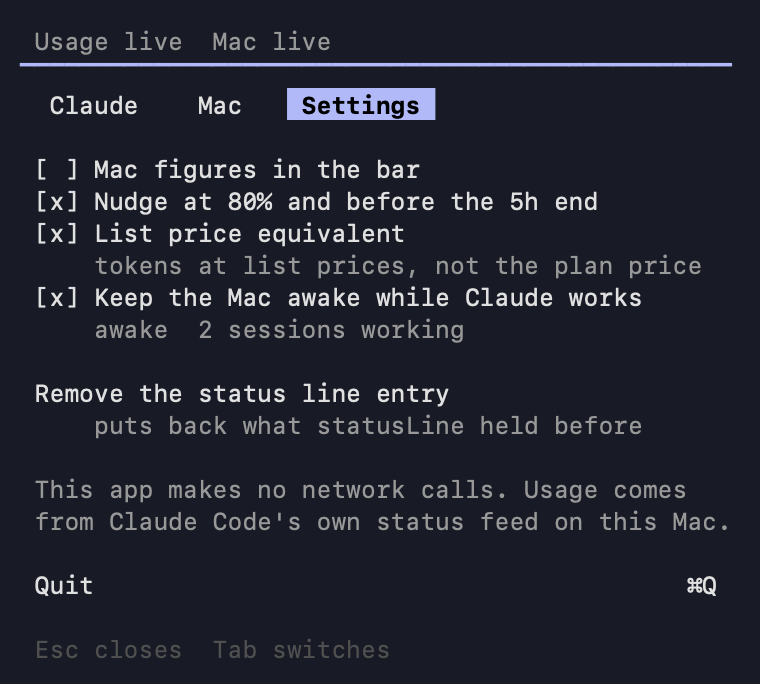
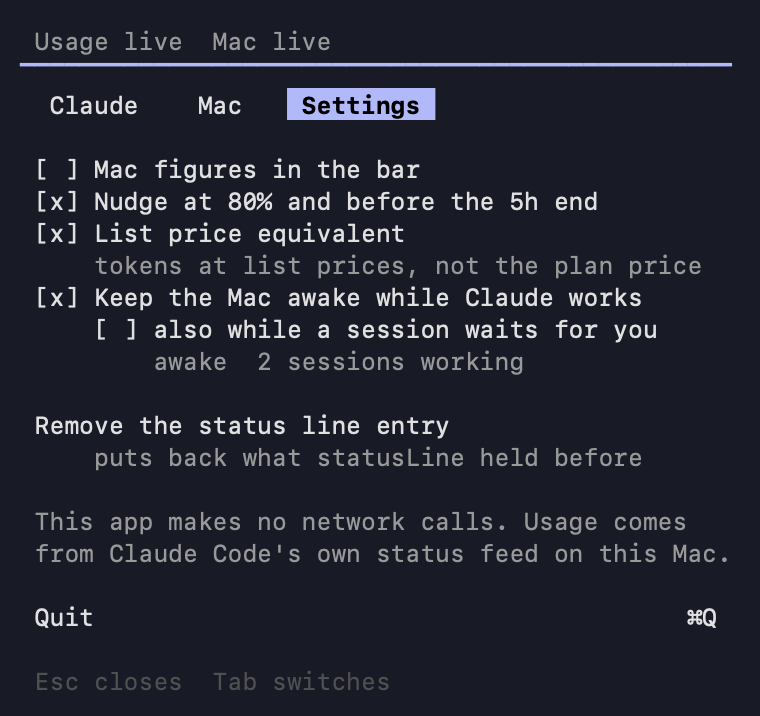
Keep the Mac awake while a session waits

diff --git a/docs/spec.html b/docs/spec.html
@@ -162,6 +162,7 @@ exit 0</pre>
 <ul>
 <li>An open session is working while its figures move: <code>current_usage</code> summed, <code>total_cost_usd</code>, <code>total_lines_added</code>, <code>total_lines_removed</code> and <code>used_percentage</code>. The app remembers per session when they last changed; a session counts as working for 10 minutes after that (<code>Rules.keepAwakeGrace</code>). The first snapshot of a session counts as a change. An idle session writes the same figures every 5 s, and a repeat is not a change, so an idle terminal does not count. A session that leaves the open list is forgotten.</li>
 <li>With the setting keepAwake on and at least one session working, the app holds one IOKit power assertion, <code>IOPMAssertionCreateWithName</code> with <code>kIOPMAssertionTypePreventUserIdleSystemSleep</code>, named "tokenpanda: Claude Code is working". The display may still sleep. Never a second assertion while one is held. Released as soon as no session works, when the setting is turned off, and when the app quits. <code>pmset -g assertions</code> shows it.</li>
+<li>With the second setting keepAwakeWhileOpen on as well, any open session holds the same one assertion, idle or working, for Remote Control from the phone: a session waiting for a prompt keeps writing every 5 s, so it stays open (the 10 s rule above) and needs no grace. The assertion is then named "tokenpanda: a Claude Code session is open"; when the reason changes, the held one is released before the one with the other name is made. keepAwakeWhileOpen counts only while keepAwake is on.</li>
 <li>Limits, said plainly: it prevents idle sleep only, so a closed lid on battery still sleeps the Mac. A single step that runs longer than 10 minutes without moving the figures lets the Mac sleep as usual.</li>
 </ul>
 
@@ -326,7 +327,8 @@ countdown  = remaining as "in Nd Nh" or "in Nh Nm"</pre>
 <tr><td>macFiguresInBar</td><td>bool</td><td>false</td><td>Mac figures in the bar</td></tr>
 <tr><td>nudges</td><td>bool</td><td>true</td><td>Nudge at 80% and before the 5h end</td></tr>
 <tr><td>listPriceEquivalent</td><td>bool</td><td>true</td><td>List price equivalent (second line: tokens at list prices, not the plan price)</td></tr>
-<tr><td>keepAwake</td><td>bool</td><td>false</td><td>Keep the Mac awake while Claude works (second line, only while the assertion is held: "awake  2 sessions working")</td></tr>
+<tr><td>keepAwake</td><td>bool</td><td>false</td><td>Keep the Mac awake while Claude works</td></tr>
+<tr><td>keepAwakeWhileOpen</td><td>bool</td><td>false</td><td>also while a session waits for you (indented under keepAwake, drawn only while keepAwake is on; the note under it, only while the assertion is held: "awake  2 sessions working" or "awake  1 session open")</td></tr>
 <tr><td>hookPreviousCommand</td><td>string</td><td>none</td><td>the status line command that was in settings.json before install, for uninstall; internal</td></tr>
 <tr><td>nudgedWeeklyWindow</td><td>epoch seconds</td><td>none</td><td>the resets_at of the weekly window last nudged; internal</td></tr>
 <tr><td>nudgedFiveHourWindow</td><td>epoch seconds</td><td>none</td><td>the resets_at of the 5h window last nudged; internal</td></tr>
@@ -381,7 +383,7 @@ countdown  = remaining as "in Nd Nh" or "in Nh Nm"</pre>
 <li>"[ ] Mac figures in the bar".</li>
 <li>"[x] Nudge at 80% and before the 5h end".</li>
 <li>"[x] List price equivalent", second line "tokens at list prices, not the plan price".</li>
-<li>"[ ] Keep the Mac awake while Claude works"; while the power assertion is held, second line "awake  2 sessions working" dim (section 4).</li>
+<li>"[ ] Keep the Mac awake while Claude works"; while it is on, the indented row "[ ] also while a session waits for you" under it; while the power assertion is held, "awake  2 sessions working" or "awake  1 session open" dim under that (section 4).</li>
 <li>Blank. "Install the status line entry" with "one statusLine entry in ~/.claude/settings.json" dim under it, or, once installed, "Remove the status line entry" with "puts back what statusLine held before". An error from either click follows as a third dim line.</li>
 <li>Blank. "This app makes no network calls. Usage comes" and "from Claude Code's own status feed on this Mac." dim.</li>
 <li>Blank. "Quit" with "⌘Q" right aligned.</li>
@@ -419,9 +421,9 @@ from Claude Code's own status feed on this Mac.</pre>
 
 <h2 id="packaging">17  Packaging</h2>
 <h3>Build</h3>
-<pre>scripts/build-app.sh 0.1.3   # swift build -c release, then build/tokenpanda.app: Contents/MacOS,
+<pre>scripts/build-app.sh 0.1.4   # swift build -c release, then build/tokenpanda.app: Contents/MacOS,
                              # Contents/Resources (hook.sh, AppIcon.icns), Info.plist (LSUIElement true,
-                             # CFBundleIconFile AppIcon), ad hoc codesign; then build/tokenpanda-0.1.3.zip and its SHA-256</pre>
+                             # CFBundleIconFile AppIcon), ad hoc codesign; then build/tokenpanda-0.1.4.zip and its SHA-256</pre>
 <p>Two release paths. Releases are built by path one for now; path two is written here for when the project signs with a Developer ID.</p>
 <h3>Path one: unsigned (ad hoc), own tap</h3>
 <p>Ad hoc signing does not satisfy Gatekeeper on a downloaded file, and since macOS Sequoia Control-click no longer overrides it. Apple's current page (published 2026-05-27) gives the flow, which the README repeats:</p>
@@ -449,7 +451,7 @@ from Claude Code's own status feed on this Mac.</pre>
 <li>Pace model: the worked example of section 7 as fixtures, both branches; the three status words at the thresholds (U = E + 5 is On pace, U = E + 5.01 is Over pace); U = 0; T past R; an unknown key yields "unknown window"; a second resets_at that contradicts the key's length yields "unknown window".</li>
 <li>Feed parser: the captured sample JSON (percentages as integers) and the doc example (23.5) both parse; a first call without rate_limits leaves the windows untouched; unknown keys such as <code>scratchpad_dir</code> are ignored; session_id, project_dir, model, context_window and cost are read; <code>current_usage</code> null is handled.</li>
 <li>Open sessions: a file written 9 s ago is open, 11 s ago is not, 61 s ago is deleted.</li>
-<li>Working sessions: the first snapshot counts; identical repeats every 5 s do not keep a session working; a change in any of the five figures does; the grace ends at 10 minutes; a session no longer open drops.</li>
+<li>Working sessions: the first snapshot counts; identical repeats every 5 s do not keep a session working; a change in any of the five figures does; the grace ends at 10 minutes; a session no longer open drops. Keep awake: the first switch alone counts working sessions only; both switches count every open session; the first switch off disables both.</li>
 <li>Bar builder: 36 cells at 61% is 21 full cells and a full block (22 cells); 50 cells at 9% is four full cells and ▌; the tick at E = 55% of 36 is cell 20; the tick never exceeds N - 1; stale yields no coral.</li>
 <li>Transcript reader: a fixture transcript with one message id written three times with identical usage sums it once; a <code>&lt;synthetic&gt;</code> line is skipped; a malformed line is skipped; a file under <code>subagents/</code> and a line with <code>isSidechain</code> true count as agent share; a file under <code>memory/</code> or <code>tool-results/</code> is never opened (the enumerator is tested against a fixture tree); the sum matches the fixture's <code>cost-state</code> line within rounding.</li>
 <li>Prices: one message per row of the table against a hand computed figure; an unknown id counts tokens and no cost; the Haiku 5.5 tier by input size; the 5m and 1h split.</li>

diff --git a/Sources/App/Controller.swift b/Sources/App/Controller.swift
@@ -53,8 +53,8 @@ final class Controller: NSObject, NSApplicationDelegate, NSPopoverDelegate {
     var transcriptsVersion = -1
     var tokensDay: Date? = nil
     var working = WorkingSessions()
-    var awakeAssertion: IOPMAssertionID? = nil   // held only while the setting is on and a session works
-    var awakeSessions = 0
+    var awakeAssertion: IOPMAssertionID? = nil   // held only while the setting is on and a session works, or is open with the second switch
+    var awake: KeepAwake? = nil                  // why it is held
 
     var item: NSStatusItem!
     let popover = NSPopover()
@@ -236,24 +236,32 @@ final class Controller: NSObject, NSApplicationDelegate, NSPopoverDelegate {
 
     // MARK: keep awake
 
-    /// One power assertion against idle system sleep while the setting is on and a session works; the display may still sleep.
-    /// Never a second one while one is held; released as soon as nothing works.
+    /// One power assertion against idle system sleep while the setting is on and a session works, or with the second switch
+    /// while a session is open; the display may still sleep. Never a second one while one is held: when the reason changes,
+    /// the held one is released before the one with the new name is made. Released as soon as nothing holds the Mac awake.
     func updateAwake(now: Date) {
-        let n = Settings.bool(Settings.keepAwake) ? working.count(now: now, grace: Rules.keepAwakeGrace) : 0
-        if n > 0, awakeAssertion == nil {
-            var id = IOPMAssertionID(0)
-            let r = IOPMAssertionCreateWithName(kIOPMAssertionTypePreventUserIdleSystemSleep as CFString, IOPMAssertionLevel(kIOPMAssertionLevelOn),
-                                                "tokenpanda: Claude Code is working" as CFString, &id)
-            if r == kIOReturnSuccess { awakeAssertion = id }
-        } else if n == 0 {
-            releaseAwake()
+        let next = KeepAwake.decide(on: Settings.bool(Settings.keepAwake), whileOpen: Settings.bool(Settings.keepAwakeWhileOpen),
+                                    working: working.count(now: now, grace: Rules.keepAwakeGrace), open: feedState.sessions.count)
+        guard let next else { releaseAwake(); return }
+        let held = awake.map { Self.assertionName($0) }
+        if awakeAssertion != nil, held == Self.assertionName(next) { awake = next; return }
+        releaseAwake()
+        var id = IOPMAssertionID(0)
+        let r = IOPMAssertionCreateWithName(kIOPMAssertionTypePreventUserIdleSystemSleep as CFString, IOPMAssertionLevel(kIOPMAssertionLevelOn),
+                                            Self.assertionName(next) as CFString, &id)
+        if r == kIOReturnSuccess { awakeAssertion = id; awake = next }
+    }
+
+    static func assertionName(_ a: KeepAwake) -> String {
+        switch a {
+        case .working: return "tokenpanda: Claude Code is working"
+        case .open: return "tokenpanda: a Claude Code session is open"
         }
-        awakeSessions = awakeAssertion == nil ? 0 : n
     }
 
     func releaseAwake() {
         if let id = awakeAssertion { IOPMAssertionRelease(id); awakeAssertion = nil }
-        awakeSessions = 0
+        awake = nil
     }
 
     // MARK: nudges
@@ -280,7 +288,8 @@ final class Controller: NSObject, NSApplicationDelegate, NSPopoverDelegate {
         LiveInput(feed: feedState, hook: hookStatus, tokens: tokens, transcriptsRootsExist: transcriptsRootsExist, transcriptsError: transcriptsError,
                   mac: mac, weeks: weeks, macInBar: Settings.bool(Settings.macFiguresInBar), nudges: Settings.bool(Settings.nudges),
                   listPrice: Settings.bool(Settings.listPriceEquivalent), nudgeNote: notifier.noteForSettings, hookError: hookError,
-                  keepAwake: Settings.bool(Settings.keepAwake), awakeSessions: awakeSessions, warn: warning, tab: tab, section: section, now: Date())
+                  keepAwake: Settings.bool(Settings.keepAwake),
+                  keepAwakeWhileOpen: Settings.bool(Settings.keepAwakeWhileOpen), awake: awake, warn: warning, tab: tab, section: section, now: Date())
     }
 
     func render() {
@@ -310,7 +319,7 @@ final class Controller: NSObject, NSApplicationDelegate, NSPopoverDelegate {
         case .toggle(let key):
             Settings.toggle(key)
             if key == Settings.nudges, Settings.bool(key) { notifier.requestIfNeeded() }
-            if key == Settings.keepAwake { updateAwake(now: Date()) }
+            if key == Settings.keepAwake || key == Settings.keepAwakeWhileOpen { updateAwake(now: Date()) }
         case .install:
             do {
                 let st = try hook.install()

diff --git a/Sources/UI/ScreenBuilder.swift b/Sources/UI/ScreenBuilder.swift
@@ -23,7 +23,8 @@ public struct LiveInput: Sendable {
     public var nudgeNote: String?
     public var hookError: String?
     public var keepAwake: Bool
-    public var awakeSessions: Int      // the working sessions while the power assertion is held; 0 when it is not
+    public var keepAwakeWhileOpen: Bool
+    public var awake: KeepAwake?       // why the power assertion is held; nil when it is not
     public var warn: Bool
     public var tab: Int
     public var section: Int
@@ -33,11 +34,11 @@ public struct LiveInput: Sendable {
 
     public init(feed: FeedState, hook: HookStatus, tokens: TokenSummary?, transcriptsRootsExist: Bool, transcriptsError: String?,
                 mac: MacSample?, weeks: WeekRecords, macInBar: Bool, nudges: Bool, listPrice: Bool, nudgeNote: String?, hookError: String? = nil,
-                keepAwake: Bool = false, awakeSessions: Int = 0, warn: Bool, tab: Int, section: Int, now: Date, timeZone: TimeZone = .current, calendar: Calendar = .current) {
+                keepAwake: Bool = false, keepAwakeWhileOpen: Bool = false, awake: KeepAwake? = nil, warn: Bool, tab: Int, section: Int, now: Date, timeZone: TimeZone = .current, calendar: Calendar = .current) {
         self.feed = feed; self.hook = hook; self.tokens = tokens; self.transcriptsRootsExist = transcriptsRootsExist
         self.transcriptsError = transcriptsError; self.mac = mac; self.weeks = weeks; self.macInBar = macInBar; self.nudges = nudges
         self.listPrice = listPrice; self.nudgeNote = nudgeNote; self.hookError = hookError; self.warn = warn
-        self.keepAwake = keepAwake; self.awakeSessions = awakeSessions; self.tab = tab; self.section = section
+        self.keepAwake = keepAwake; self.keepAwakeWhileOpen = keepAwakeWhileOpen; self.awake = awake; self.tab = tab; self.section = section
         self.now = now; self.timeZone = timeZone; self.calendar = calendar
     }
 }
@@ -242,9 +243,16 @@ public enum ScreenBuilder {
 
     // MARK: the whole screen and the item
 
-    /// The keep awake row's second line, only while the power assertion is held.
-    public static func awakeNote(_ working: Int) -> String? {
-        working > 0 ? "awake  \(working) session\(working == 1 ? "" : "s") working" : nil
+    /// The keep awake rows' note, only while the power assertion is held.
+    public static func awakeNote(_ awake: KeepAwake?) -> String? {
+        guard let awake, awake.sessions > 0 else { return nil }
+        let n = awake.sessions
+        let what: String
+        switch awake {
+        case .working: what = "working"
+        case .open: what = "open"
+        }
+        return "awake  \(n) session\(n == 1 ? "" : "s") " + what
     }
 
     /// "Usage live" only while a session fed in the last minute; between sessions the time of the last figures;
@@ -259,7 +267,8 @@ public enum ScreenBuilder {
         let (sessions, more) = sessionViews(i)
         let claude = ClaudeTab(limits: limitsView(i), sessions: sessions, moreSessions: more, tokens: tokensView(i), weeks: weekViews(i))
         let settings = SettingsTab(macInBar: i.macInBar, nudges: i.nudges, listPrice: i.listPrice, nudgeNote: i.nudgeNote,
-                                   hookInstalled: i.hook.installed, hookError: i.hookError, keepAwake: i.keepAwake, awakeNote: awakeNote(i.awakeSessions))
+                                   hookInstalled: i.hook.installed, hookError: i.hookError, keepAwake: i.keepAwake,
+                                   keepAwakeWhileOpen: i.keepAwakeWhileOpen, awakeNote: awakeNote(i.awake))
         return Screen(tab: i.tab, headerLine: headerLine(i), warn: i.warn, claude: claude, mac: macTab(i), settings: settings)
     }
 

diff --git a/docs/privacy.html b/docs/privacy.html
@@ -76,10 +76,10 @@
 <li><code>~/Library/Application Support/dev.tokenpanda.app/statusline-before.json</code>: your <code>statusLine</code> entry as it was before the install, so removing the hook can put it back exactly; deleted on removal</li>
 <li><code>~/Library/Application Support/dev.tokenpanda.app/limits.json</code>: the last two plan windows (used percent and reset time) and the time they were read, so the figures outlive the session files; no path, no model, no session id</li>
 <li><code>~/Library/Application Support/dev.tokenpanda.app/weeks.json</code>: four small records of past weekly windows, for the week over week rows</li>
-<li>your preferences (four switches and two timestamps the nudges use) in the app's preferences file under <code>~/Library/Preferences</code></li>
+<li>your preferences (five switches and two timestamps the nudges use) in the app's preferences file under <code>~/Library/Preferences</code></li>
 </ul>
 <p>No log file. No cache of transcripts. No copy of anything you wrote. If installing or removing the hook fails, the error is shown in Settings and written to the macOS unified log, with the message marked private.</p>
-<p>With "Keep the Mac awake while Claude works" on, the app holds one power assertion against idle sleep, and only while a Claude Code session is working, which means its figures moved in the last ten minutes. It writes no file for this; <code>pmset -g assertions</code> in Terminal shows it as "tokenpanda: Claude Code is working" while it is held. The display may still sleep, and a closed lid on battery still sleeps the Mac: this keeps it from idle sleep only.</p>
+<p>With "Keep the Mac awake while Claude works" on, the app holds one power assertion against idle sleep, and only while a Claude Code session is working, which means its figures moved in the last ten minutes. With the second switch under it, "also while a session waits for you", it holds the same one assertion while any session is open, idle ones too, so a session stays reachable through Remote Control from the phone. It writes no file for this; <code>pmset -g assertions</code> in Terminal shows it as "tokenpanda: Claude Code is working" or "tokenpanda: a Claude Code session is open" while it is held. The display may still sleep, and a closed lid on battery still sleeps the Mac: this keeps it from idle sleep only.</p>
 
 <h2 id="network">5  What leaves your Mac</h2>
 <p>Nothing. The app has no network code. It does not check for updates, does not fetch prices, does not send crash reports, does not send usage statistics, and does not call any Anthropic endpoint. The prices it uses for the "list price equivalent" figure are a table inside the app, updated with releases.</p>
@@ -99,7 +99,7 @@
 <li>Run a network monitor such as Little Snitch, or <code>nettop</code> in Terminal filtered to the app, for an hour: zero connections.</li>
 <li>Open the sessions folder in Application Support and read a snapshot file: it is the status line object Claude Code produced, as is.</li>
 <li>Open <code>~/.claude/settings.json</code> and read the <code>statusLine</code> entry: one script path and a refresh interval.</li>
-<li>Run <code>pmset -g assertions</code>: the app appears there only while keep awake is on and a session works.</li>
+<li>Run <code>pmset -g assertions</code>: the app appears there only while keep awake is on and a session works, or with the second switch, while a session is open.</li>
 </ul>
 
 <h2 id="remove">9  Removing the app</h2>

diff --git a/Tests/tokenpandaTests/FeedTests.swift b/Tests/tokenpandaTests/FeedTests.swift
@@ -324,4 +324,34 @@ struct FeedTests {
         w.apply([session("a", at: t0.addingTimeInterval(700))])
         #expect(w.count(now: t0.addingTimeInterval(700), grace: 600) == 1)
     }
+
+    @Test func keepAwakeWorksOnly() {
+        // the first switch alone: only working sessions hold the Mac awake, idle open ones do not
+        #expect(KeepAwake.decide(on: true, whileOpen: false, working: 2, open: 3) == .working(2))
+        #expect(KeepAwake.decide(on: true, whileOpen: false, working: 0, open: 3) == nil)
+    }
+
+    @Test func keepAwakeWorksPlusOpen() {
+        // both switches: any open session holds it, idle or not, and the open count is what the row says
+        #expect(KeepAwake.decide(on: true, whileOpen: true, working: 0, open: 1) == .open(1))
+        #expect(KeepAwake.decide(on: true, whileOpen: true, working: 2, open: 3) == .open(3))
+        #expect(KeepAwake.decide(on: true, whileOpen: true, working: 0, open: 0) == nil)
+        #expect(KeepAwake.open(3).sessions == 3)
+    }
+
+    @Test func keepAwakeFirstSwitchOffDisablesBoth() {
+        #expect(KeepAwake.decide(on: false, whileOpen: true, working: 2, open: 3) == nil)
+        #expect(KeepAwake.decide(on: false, whileOpen: false, working: 2, open: 3) == nil)
+    }
+
+    @Test func openRuleFollowsTheFeed() async throws {
+        // an idle session keeps writing every 5 s, so it stays open and counts for the second switch; a quiet one leaves
+        let dir = try tempDir()
+        let now = Date()
+        let reader = FeedReader(dataDir: dir)
+        try write("idle", try fixture("feed-sample"), in: dir, age: 5, now: now)
+        try write("gone", try fixture("feed-sample"), in: dir, age: 11, now: now)
+        let st = await reader.scan(now: now)
+        #expect(KeepAwake.decide(on: true, whileOpen: true, working: 0, open: st.sessions.count) == .open(1))
+    }
 }

diff --git a/Sources/Text/Grammar.swift b/Sources/Text/Grammar.swift
@@ -216,10 +216,10 @@ public enum Grammar {
     }
 
     // 6.10 checkbox rows
-    public static func cbRow(_ key: String, _ label: String, _ on: Bool, _ sub: String?) -> [Line] {
-        var out = [Line([sp(" "), Piece(on ? "[x]" : "[ ]", .text, action: .toggle(key)), Piece(" " + label, .text, action: .toggle(key))],
+    public static func cbRow(_ key: String, _ label: String, _ on: Bool, _ sub: String?, indent: String = " ") -> [Line] {
+        var out = [Line([sp(indent), Piece(on ? "[x]" : "[ ]", .text, action: .toggle(key)), Piece(" " + label, .text, action: .toggle(key))],
                         hover: true, label: label)]
-        if let sub { out.append(L(sp("     "), sp(sub, .dim))) }
+        if let sub { out.append(L(sp(indent + "    "), sp(sub, .dim))) }
         return out
     }
 
@@ -277,7 +277,10 @@ public enum Grammar {
         var out = cbRow("macFiguresInBar", "Mac figures in the bar", s.macInBar, nil)
         out += cbRow("nudges", "Nudge at 80% and before the 5h end", s.nudges, s.nudgeNote)
         out += cbRow("listPriceEquivalent", "List price equivalent", s.listPrice, "tokens at list prices, not the plan price")
-        out += cbRow("keepAwake", "Keep the Mac awake while Claude works", s.keepAwake, s.awakeNote)
+        out += cbRow("keepAwake", "Keep the Mac awake while Claude works", s.keepAwake, nil)
+        if s.keepAwake {
+            out += cbRow("keepAwakeWhileOpen", "also while a session waits for you", s.keepAwakeWhileOpen, s.awakeNote, indent: "     ")
+        }
         out.append(blank)
         out += hookRow(installed: s.hookInstalled, error: s.hookError)
         out.append(blank)

diff --git a/Sources/Text/Screen.swift b/Sources/Text/Screen.swift
@@ -137,11 +137,13 @@ public struct SettingsTab: Sendable, Equatable {
     public var hookInstalled: Bool  // the row reads "Remove the status line entry" when true, "Install the status line entry" when false
     public var hookError: String?   // the last install or remove error, shown under the row
     public var keepAwake: Bool
-    public var awakeNote: String?   // "awake  2 sessions working", only while the power assertion is held
+    public var keepAwakeWhileOpen: Bool   // the indented second row, shown only while keepAwake is on
+    public var awakeNote: String?   // "awake  2 sessions working" or "awake  1 session open", only while the power assertion is held
     public init(macInBar: Bool, nudges: Bool, listPrice: Bool, nudgeNote: String? = nil, hookInstalled: Bool = false, hookError: String? = nil,
-                keepAwake: Bool = false, awakeNote: String? = nil) {
+                keepAwake: Bool = false, keepAwakeWhileOpen: Bool = false, awakeNote: String? = nil) {
         self.macInBar = macInBar; self.nudges = nudges; self.listPrice = listPrice; self.nudgeNote = nudgeNote
-        self.hookInstalled = hookInstalled; self.hookError = hookError; self.keepAwake = keepAwake; self.awakeNote = awakeNote
+        self.hookInstalled = hookInstalled; self.hookError = hookError; self.keepAwake = keepAwake
+        self.keepAwakeWhileOpen = keepAwakeWhileOpen; self.awakeNote = awakeNote
     }
 }
 

diff --git a/Tests/tokenpandaTests/BarTests.swift b/Tests/tokenpandaTests/BarTests.swift
@@ -144,8 +144,18 @@ struct BarTests {
         #expect(lines[4].plain == " [x] Keep the Mac awake while Claude works")
         #expect(lines[4].pieces[1].action == .toggle("keepAwake"))
         #expect(lines[4].cells <= Grammar.popCells + 1)
-        #expect(lines[5].plain == "     awake  2 sessions working")
-        #expect(lines[6].plain == "")
+        #expect(lines[5].plain == "     [ ] also while a session waits for you")
+        #expect(lines[5].pieces[1].action == .toggle("keepAwakeWhileOpen"))
+        #expect(lines[6].plain == "         awake  2 sessions working")
+        #expect(lines[7].plain == "")
+        let open = Grammar.settingsTab(SettingsTab(macInBar: false, nudges: true, listPrice: true, keepAwake: true, keepAwakeWhileOpen: true,
+                                                   awakeNote: "awake  1 session open"))
+        #expect(open[5].plain == "     [x] also while a session waits for you")
+        #expect(open[6].plain == "         awake  1 session open")
+        // with the first switch off the second row is not drawn, whatever it holds
+        let off = Grammar.settingsTab(SettingsTab(macInBar: false, nudges: true, listPrice: true, keepAwake: false, keepAwakeWhileOpen: true))
+        #expect(off[4].plain == " [ ] Keep the Mac awake while Claude works")
+        #expect(off[5].plain == "")
     }
 
     @Test func hookRowRemovesWhenInstalledAndShowsTheError() {

diff --git a/docs/docs.js b/docs/docs.js
@@ -161,8 +161,9 @@ function memGrid() {
 
 /* checkbox rows */
 function cbRow(label, on, sub, o = {}) {
-  let s = L(' <button type="button" class="cb" role="checkbox" aria-checked="' + on + '">[' + (on ? 'x' : ' ') + ']</button> ' + label, 'srow' + (o.hover ? ' is-hover' : ''));
-  if (sub) s += L('     ' + sp(sub, 'd'));
+  const ind = o.indent || ' ';
+  let s = L(ind + '<button type="button" class="cb" role="checkbox" aria-checked="' + on + '">[' + (on ? 'x' : ' ') + ']</button> ' + label, 'srow' + (o.hover ? ' is-hover' : ''));
+  if (sub) s += L(ind + '    ' + sp(sub, 'd'));
   return s;
 }
 
@@ -228,6 +229,7 @@ function settingsTab(st) {
     + cbRow('Nudge at 80% and before the 5h end', st.nudge)
     + cbRow('List price equivalent', st.price, 'tokens at list prices, not the plan price')
     + cbRow('Keep the Mac awake while Claude works', !!st.awake)
+    + (st.awake ? cbRow('also while a session waits for you', !!st.awakeOpen, null, {indent: '     '}) : '')
     + BL
     + hookRow(st.hook !== false)
     + BL

diff --git a/Sources/Feed/Snapshot.swift b/Sources/Feed/Snapshot.swift
@@ -123,3 +123,22 @@ public struct WorkingSessions: Sendable, Equatable {
         entries.values.filter { now.timeIntervalSince($0.changedAt) <= grace }.count
     }
 }
+
+/// Why the keep awake assertion is held, and for how many sessions.
+public enum KeepAwake: Sendable, Equatable {
+    case working(Int)   // sessions whose figures moved within the grace
+    case open(Int)      // open sessions, idle ones too: the second switch, so a session stays reachable from the phone
+
+    /// nil when nothing holds the Mac awake. The second switch counts only while the first is on.
+    public static func decide(on: Bool, whileOpen: Bool, working: Int, open: Int) -> KeepAwake? {
+        guard on else { return nil }
+        if whileOpen, open > 0 { return .open(open) }
+        return working > 0 ? .working(working) : nil
+    }
+
+    public var sessions: Int {
+        switch self {
+        case .working(let n), .open(let n): return n
+        }
+    }
+}

diff --git a/Sources/App/Settings.swift b/Sources/App/Settings.swift
@@ -10,12 +10,13 @@ enum Settings {
     static let nudges = "nudges"
     static let listPriceEquivalent = "listPriceEquivalent"
     static let keepAwake = "keepAwake"
+    static let keepAwakeWhileOpen = "keepAwakeWhileOpen"
     static let hookPreviousCommand = "hookPreviousCommand"
     static let nudgedWeeklyWindow = "nudgedWeeklyWindow"
     static let nudgedFiveHourWindow = "nudgedFiveHourWindow"
 
     static func register() {
-        defaults.register(defaults: [macFiguresInBar: false, nudges: true, listPriceEquivalent: true, keepAwake: false])
+        defaults.register(defaults: [macFiguresInBar: false, nudges: true, listPriceEquivalent: true, keepAwake: false, keepAwakeWhileOpen: false])
     }
 
     static func bool(_ key: String) -> Bool { defaults.bool(forKey: key) }

diff --git a/Sources/UI/Fixtures.swift b/Sources/UI/Fixtures.swift
@@ -115,7 +115,7 @@ public enum Fixtures {
         var resetPassed = input(feedState: passed)
         resetPassed.weeks = passedWeeks
         var settings = input(tab: 2)
-        settings.keepAwake = true; settings.awakeSessions = 2   // the sample's two open sessions, both working
+        settings.keepAwake = true; settings.awake = .working(2)   // the sample's two open sessions, both working
         return [
             ("claude-overpace", input(weekly: 61)),
             ("claude-ahead", input(weekly: 45)),
